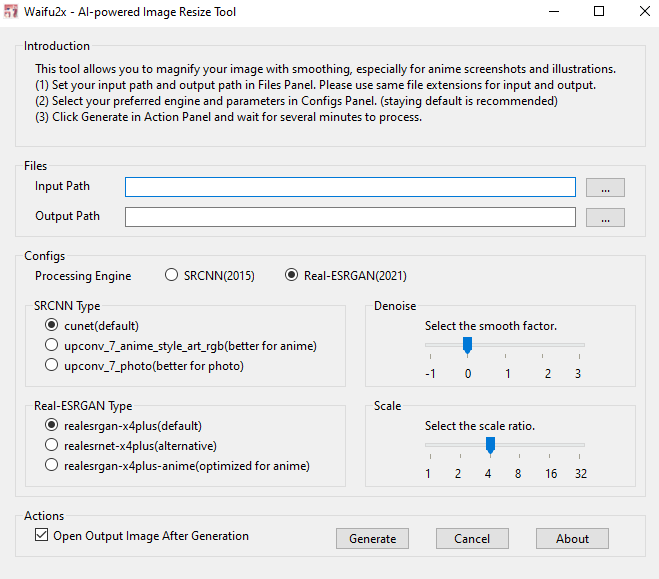
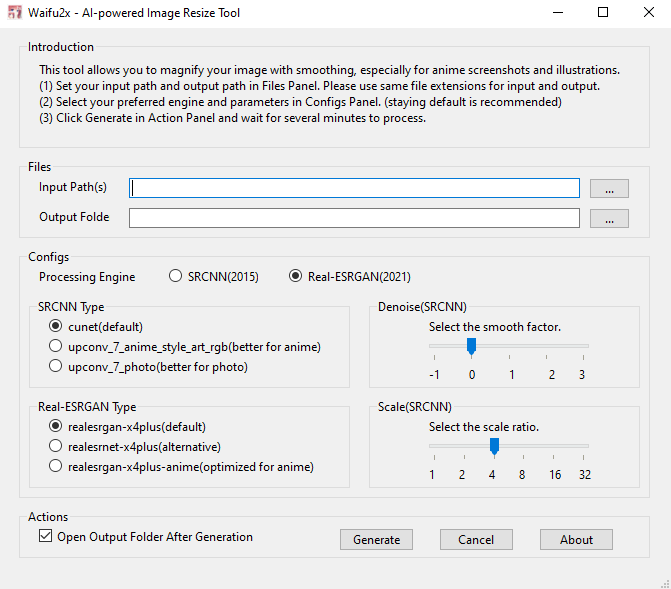
update screenshot and description

diff --git a/ui.py b/ui.py
@@ -222,7 +222,7 @@ class Ui_MainWindow(object):
 #         self.Scalelabel.setText(QCoreApplication.translate("MainWindow", u"Select the scale ratio.", None))
 #         self.Introduction.setTitle(QCoreApplication.translate("MainWindow", u"Introduction", None))
 #         self.description.setText(QCoreApplication.translate("MainWindow", u"This tool allows you to magnify your image with smoothing, especially for anime screenshots and illustrations.\n"
-# "(1) Set your input path and output path in Files Panel. Please use same file extensions for input and output.\n"
+# "(1) Set your input path and output path in Files Panel. The input path supports multiple selection.\n"
 # "(2) Select your preferred engine and parameters in Configs Panel. (staying default is recommended) \n"
 # "(3) Click Generate in Action Panel and wait for several minutes to process. ", None))
 #         self.Actions.setTitle(QCoreApplication.translate("MainWindow", u"Actions", None))
@@ -230,7 +230,6 @@ class Ui_MainWindow(object):
 #         self.Cancel.setText(QCoreApplication.translate("MainWindow", u"Cancel", None))
 #         self.OpenImage.setText(QCoreApplication.translate("MainWindow", u"Open Output Folder After Generation", None))
 #         self.About.setText(QCoreApplication.translate("MainWindow", u"About", None))
-    # retranslateUi
 
     def retranslateUi(self, MainWindow):
         MainWindow.setWindowTitle(QCoreApplication.translate("MainWindow", u"Waifu2x - 人工智能图像放大工具", None))
@@ -269,7 +268,7 @@ class Ui_MainWindow(object):
         self.Scalelabel.setText(QCoreApplication.translate("MainWindow", u"选择放大倍率。", None))
         self.Introduction.setTitle(QCoreApplication.translate("MainWindow", u"介绍", None))
         self.description.setText(QCoreApplication.translate("MainWindow", u"此工具可让您通过平滑放大图像，尤其是对于动漫屏幕截图和插图。\n"
-"(1) 在文件面板中设置输入路径和输出路径。 请使用相同的文件扩展名进行输入和输出。\n"
+"(1) 在文件面板中设置输入路径和输出路径。 输入路径支持多选。\n"
 "(2) 在配置面板中选择您喜欢的引擎和参数。 （建议保持默认） \n"
 "(3) 单击操作面板中的生成并等待几分钟进行处理。 ", None))
         self.Actions.setTitle(QCoreApplication.translate("MainWindow", u"操作", None))
@@ -277,3 +276,49 @@ class Ui_MainWindow(object):
         self.Cancel.setText(QCoreApplication.translate("MainWindow", u"取消", None))
         self.OpenImage.setText(QCoreApplication.translate("MainWindow", u"生成后打开文件夹", None))
         self.About.setText(QCoreApplication.translate("MainWindow", u"关于", None))
+
+#     def retranslateUi(self, MainWindow):
+#         MainWindow.setWindowTitle(QCoreApplication.translate("MainWindow", u"Waifu2x - AI画像拡大ツール", None))
+#         self.Files.setTitle(QCoreApplication.translate("MainWindow", u"ファイル", None))
+#         self.OutputPath.setText(QCoreApplication.translate("MainWindow", u"出力パス", None))
+#         self.OutputEdit.setText("")
+#         self.InputPath.setText(QCoreApplication.translate("MainWindow", u"入力パス", None))
+#         self.InputButton.setText(QCoreApplication.translate("MainWindow", u"...", None))
+#         self.OutputButton.setText(QCoreApplication.translate("MainWindow", u"...", None))
+#         self.Configs.setTitle(QCoreApplication.translate("MainWindow", u"設定", None))
+#         self.ModelSRCNN.setText(QCoreApplication.translate("MainWindow", u"SRCNN(2015)", None))
+#         self.Model.setText(QCoreApplication.translate("MainWindow", u"処理エンジン", None))
+#         self.ModelRealESRGAN.setText(QCoreApplication.translate("MainWindow", u"Real-ESRGAN(2021)", None))
+#         self.SRCNN.setTitle(QCoreApplication.translate("MainWindow", u"SRCNN モデル", None))
+#         self.SRCNNphoto.setText(QCoreApplication.translate("MainWindow", u"upconv_7_photo(写真に適用)", None))
+#         self.SRCNNcunet.setText(QCoreApplication.translate("MainWindow", u"cunet(ディフォルト)", None))
+#         self.SRCNNanime.setText(QCoreApplication.translate("MainWindow", u"upconv_7_anime_style_art_rgb(アニメに適用)", None))
+#         self.RealESRGAN.setTitle(QCoreApplication.translate("MainWindow", u"Real-ESRGAN モデル", None))
+#         self.realesrnetx4plus.setText(QCoreApplication.translate("MainWindow", u"realesrnet-x4plus(代わり)", None))
+#         self.realesrganx4plusanime.setText(QCoreApplication.translate("MainWindow", u"realesrgan-x4plus-anime(アニメに適用)", None))
+#         self.realesrganx4plus.setText(QCoreApplication.translate("MainWindow", u"realesrgan-x4plus(ディフォルト)", None))
+#         self.Denoise.setTitle(QCoreApplication.translate("MainWindow", u"ノイズ除去レベル(SRCNN)", None))
+#         self.Denoise0.setText(QCoreApplication.translate("MainWindow", u"-1", None))
+#         self.Denoise3.setText(QCoreApplication.translate("MainWindow", u"2", None))
+#         self.Denoise4.setText(QCoreApplication.translate("MainWindow", u"3", None))
+#         self.Denoise1.setText(QCoreApplication.translate("MainWindow", u"0", None))
+#         self.Denoise2.setText(QCoreApplication.translate("MainWindow", u"1", None))
+#         self.Denoiselabel.setText(QCoreApplication.translate("MainWindow", u"ノイズスムージングレベルを選択してください。", None))
+#         self.Scale.setTitle(QCoreApplication.translate("MainWindow", u"サイズ(SRCNN)", None))
+#         self.Scale3.setText(QCoreApplication.translate("MainWindow", u"4", None))
+#         self.Scale2.setText(QCoreApplication.translate("MainWindow", u"2", None))
+#         self.Scale6.setText(QCoreApplication.translate("MainWindow", u"32", None))
+#         self.Scale1.setText(QCoreApplication.translate("MainWindow", u"1", None))
+#         self.Scale4.setText(QCoreApplication.translate("MainWindow", u"8", None))
+#         self.Scale5.setText(QCoreApplication.translate("MainWindow", u"16", None))
+#         self.Scalelabel.setText(QCoreApplication.translate("MainWindow", u"拡大倍率を選択してください。", None))
+#         self.Introduction.setTitle(QCoreApplication.translate("MainWindow", u"紹介", None))
+#         self.description.setText(QCoreApplication.translate("MainWindow", u"このツールを使用すると、特にアニメのスクリーンショットやイラストの画像をスムーズに拡大できます。\n"
+# "(1) [ファイル]パネルで[入力パス]と[出力パス]を設定します。 入力パスは複数選択をサポートしています。\n"
+# "(2) [設定]パネルで希望のエンジンとパラメーターを選択します。 デフォルトのままにすることをお勧めします。 \n"
+# "(3) [操作]パネルで[生成]をクリックし、処理されるまで数分待ちます。 ", None))
+#         self.Actions.setTitle(QCoreApplication.translate("MainWindow", u"操作", None))
+#         self.Generate.setText(QCoreApplication.translate("MainWindow", u"生成", None))
+#         self.Cancel.setText(QCoreApplication.translate("MainWindow", u"キャンセル", None))
+#         self.OpenImage.setText(QCoreApplication.translate("MainWindow", u"生成後に出力パスを開く", None))
+#         self.About.setText(QCoreApplication.translate("MainWindow", u"製品情報", None))

diff --git a/README.md b/README.md
@@ -50,13 +50,13 @@ https://github.com/skeeto/vulkan-test/releases/download/1.0.2/vulkan_test.exe
 * NVIDIA: https://www.nvidia.com/Download/index.aspx
 
 
-## 运行/Run
+## 运行/Manual
 
 ![Screenshot_ZH](./Screenshot_ZH.png)
 
 打开 Waifu2x_zh.exe 并按照说明进行操作。
 
-(1) 在文件面板中设置输入路径和输出路径。 请使用相同的文件扩展名进行输入和输出。
+(1) 在文件面板中设置输入路径和输出路径。 输入路径支持多选。
 
 (2) 在配置面板中选择您喜欢的引擎和参数。 建议保持默认。只有SRCNN支持选择放大倍率和去噪强度。
 
@@ -66,7 +66,7 @@ https://github.com/skeeto/vulkan-test/releases/download/1.0.2/vulkan_test.exe
 
 Open Waifu2x_en.exe and follow the instructions.
 
-(1) Set your input path and output path in Files Panel. Please use same file extensions for input and output.
+(1) Set your input path and output path in Files Panel. The input path supports multiple selection.
 
 (2) Select your preferred engine and parameters in Configs Panel. Staying default is recommended. Only SRCNN supports selection of magnification and denoising strength.
 
